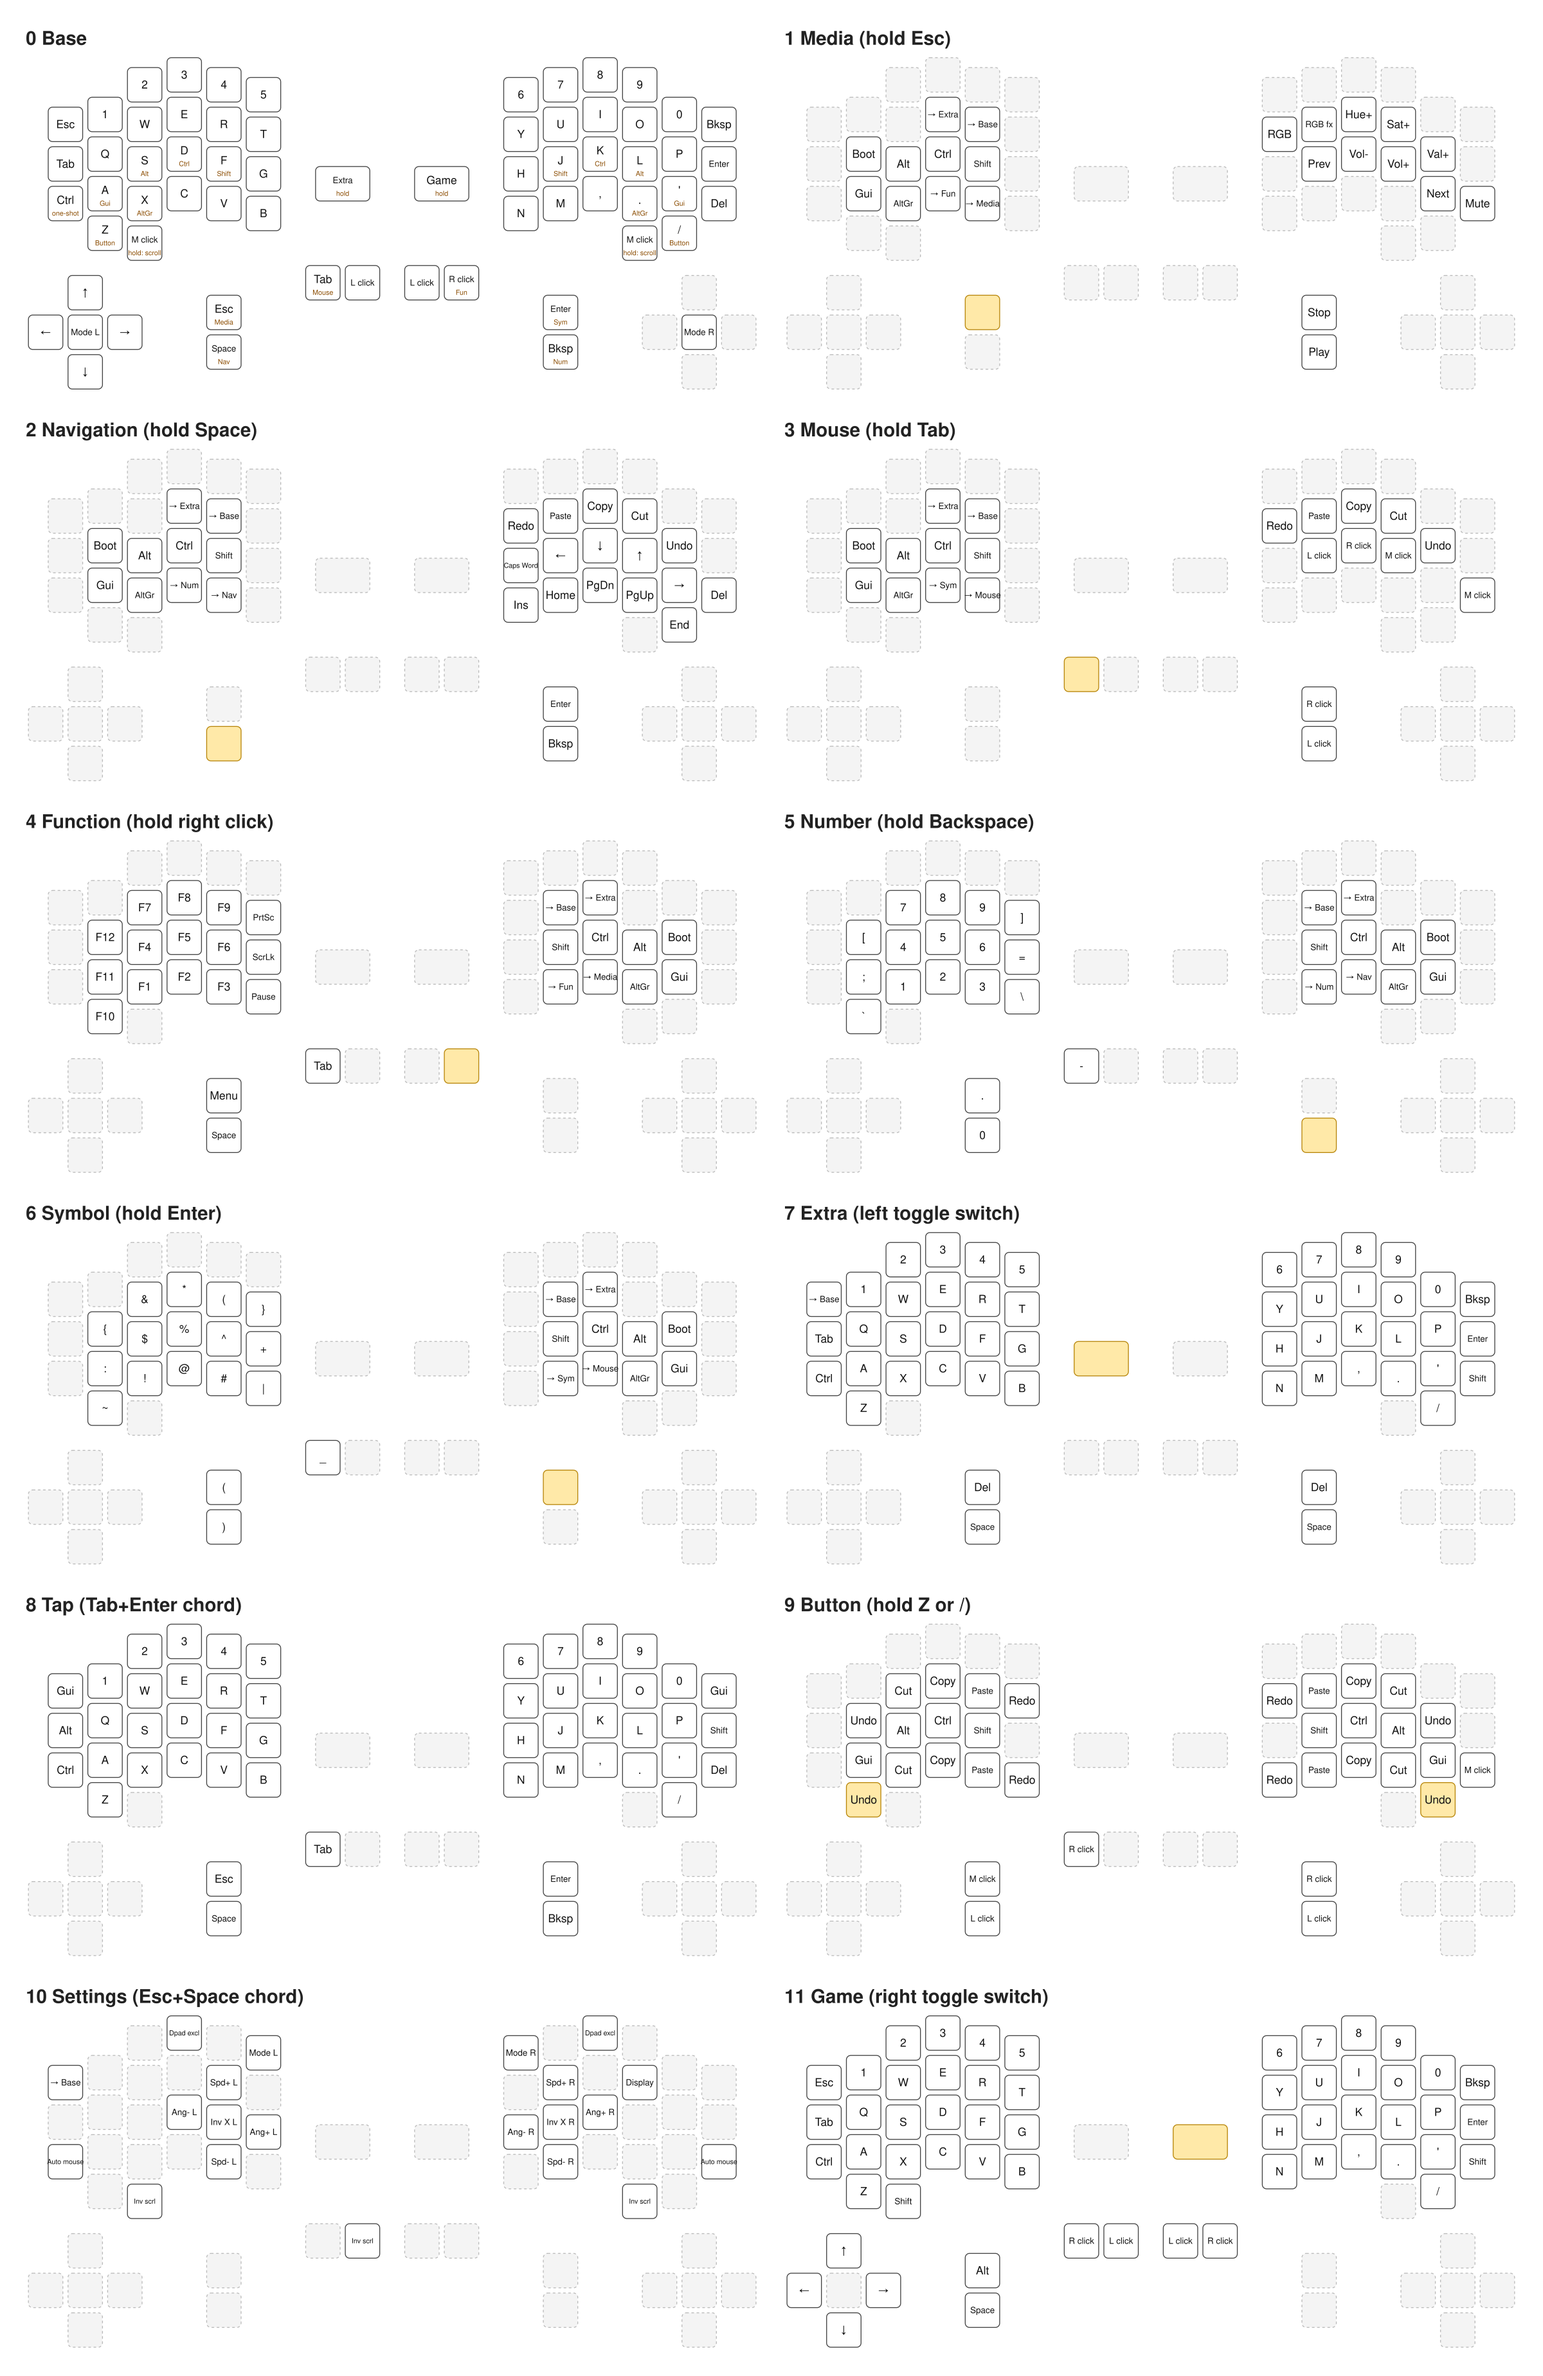
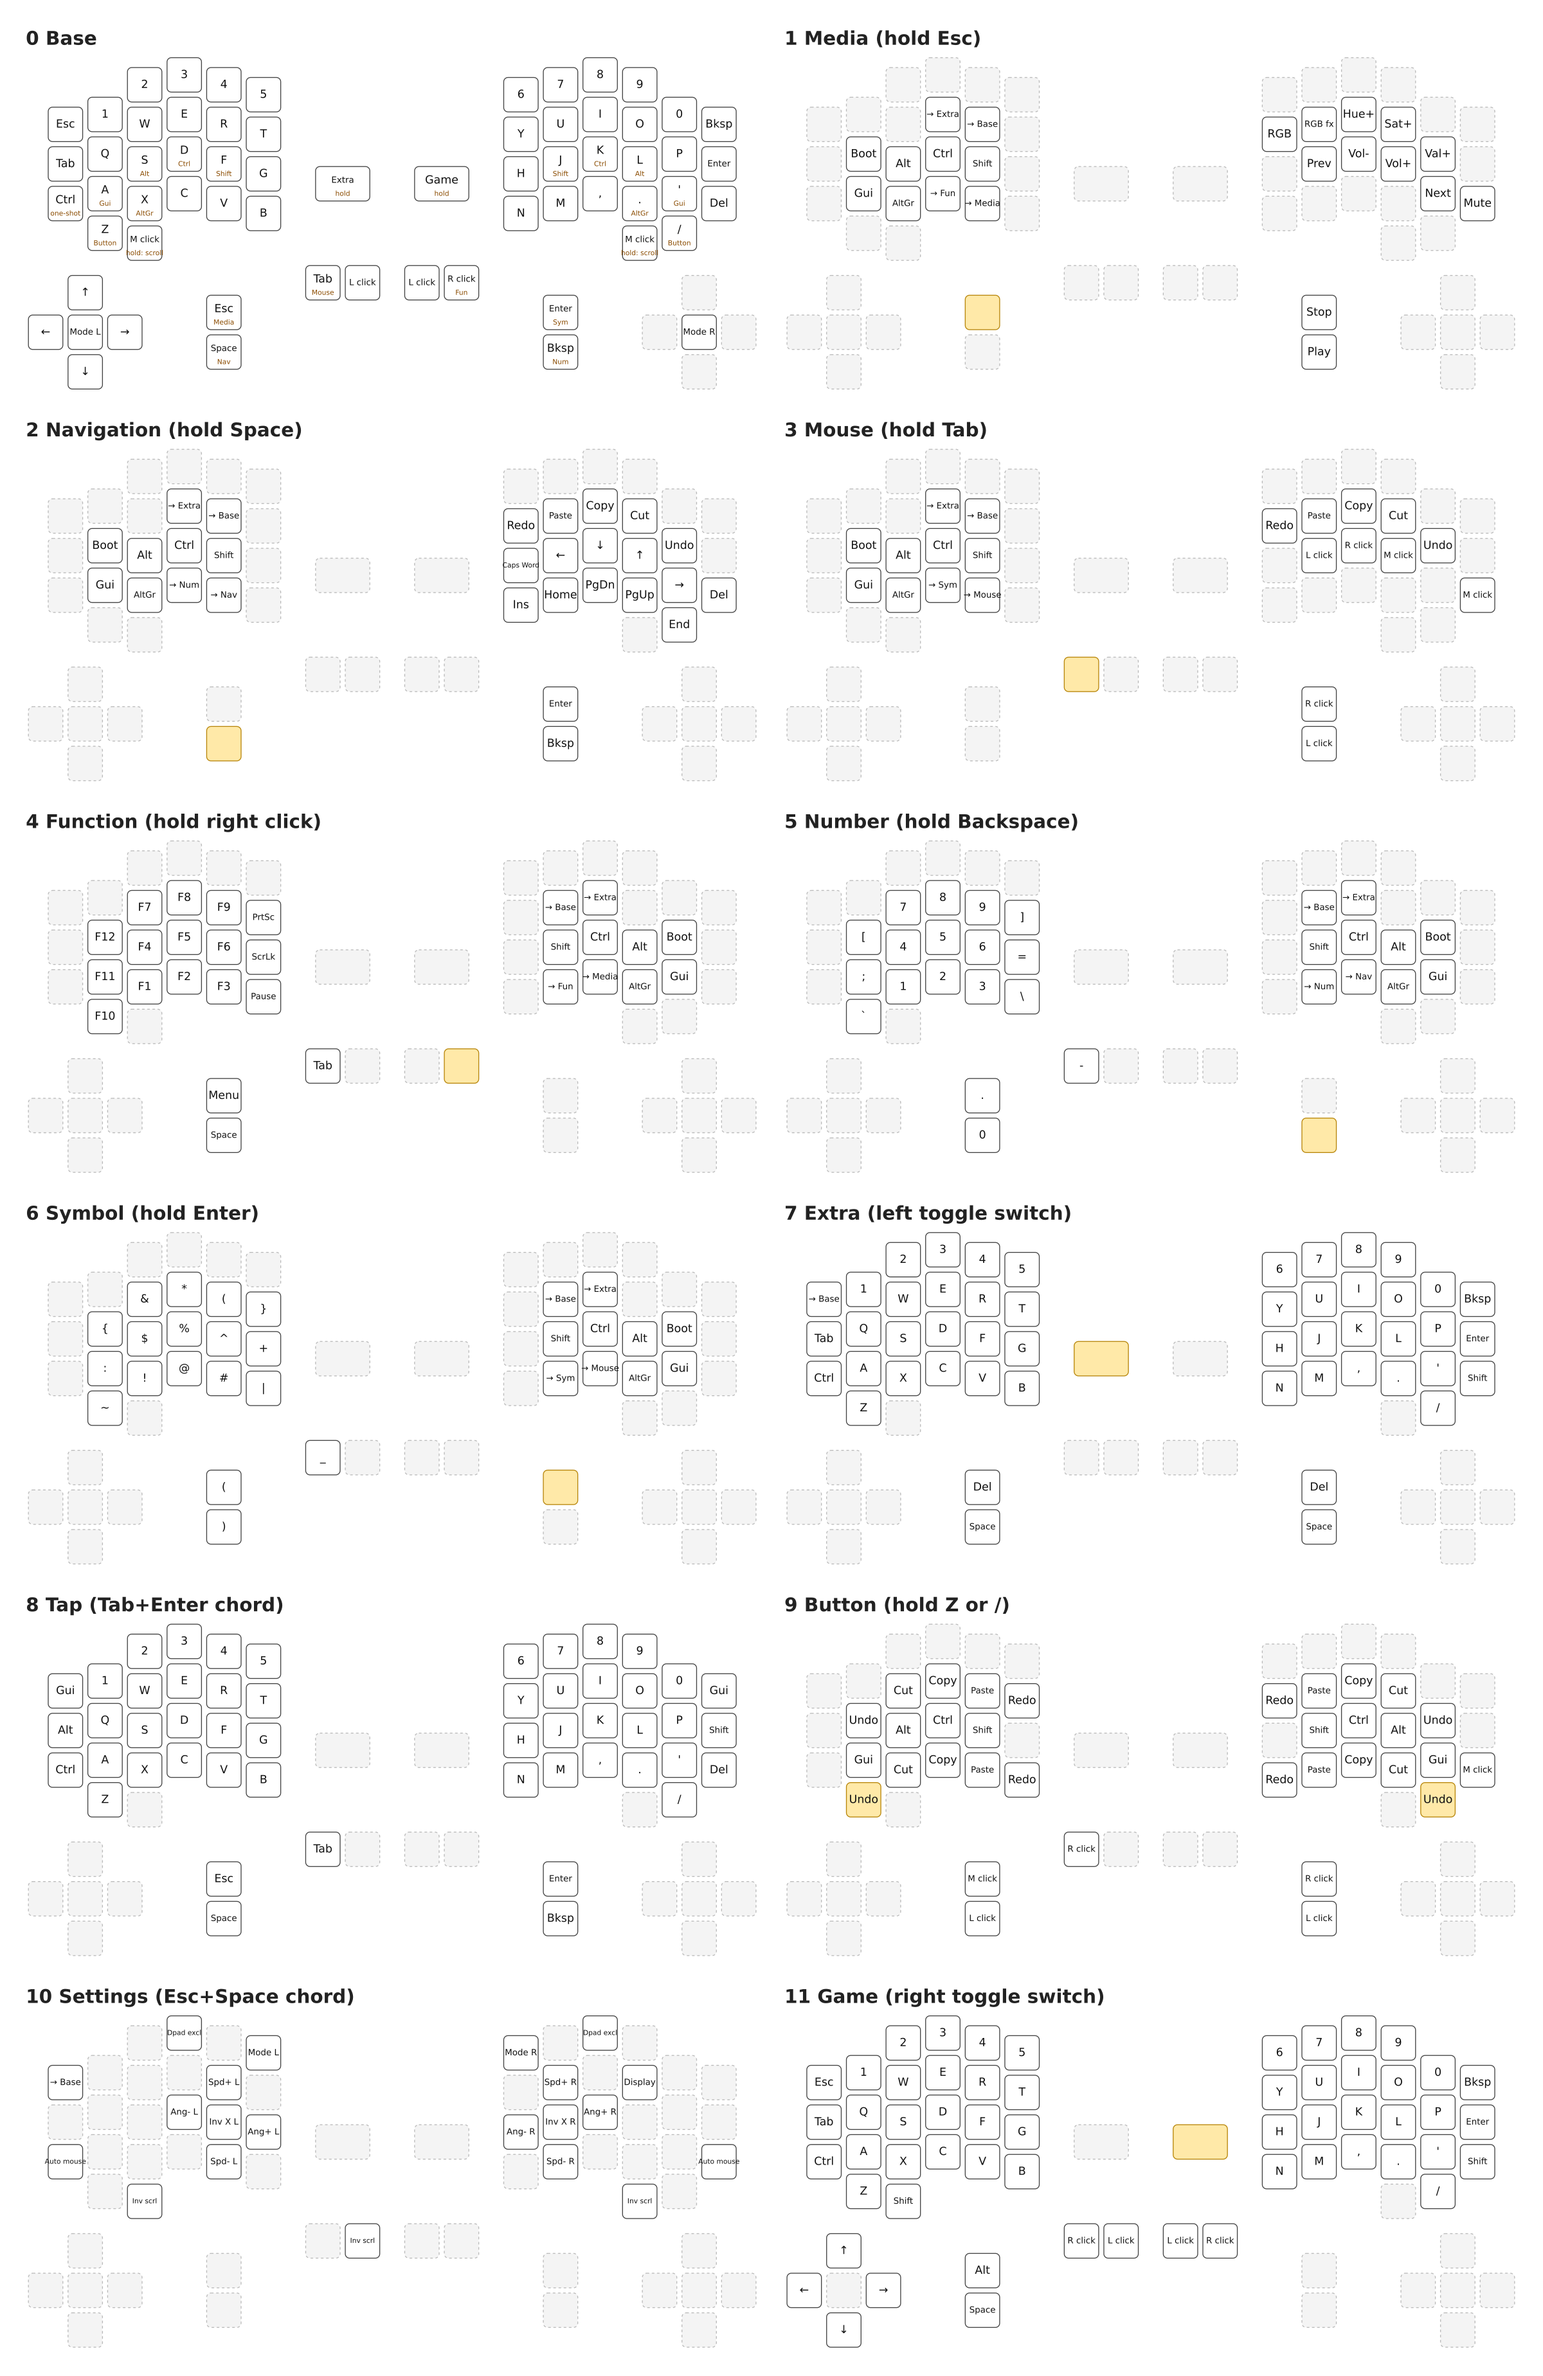
rotate only the upright OLED artwork for the right half in software

diff --git a/keyboards/killerwhale/duo/keymaps/miryoku/keymap.c b/keyboards/killerwhale/duo/keymaps/miryoku/keymap.c
@@ -13,7 +13,6 @@
 enum custom_keycodes {
     SCRL_BTN = SAFE_RANGE, // tap = middle click, hold = scroll mode
     OLED_VIEW,             // cycle the USB half's display view (KW layer, O key)
-    OLED_FLIP,             // cycle the right panel's orientation (KW layer, I key)
 };
 
 // Layer definitions. Thumb hold layers first, in thumb order left to right
@@ -301,7 +300,7 @@ const uint16_t PROGMEM keymaps[][MATRIX_ROWS][MATRIX_COLS] = {
     /*
      * KillerWhale Layer (trackball / dpad / encoder settings)
      * ESC returns to BASE. 5 / 6 cycle the left / right ball mode, O cycles
-     * the USB half's display view, I cycles the right panel's orientation.
+     * the USB half's display view.
      */
     [U_KW] = LAYOUT(
         TO(U_BASE), _______, _______, QK_USER_14, _______, L_CHMOD,
@@ -314,7 +313,7 @@ const uint16_t PROGMEM keymaps[][MATRIX_ROWS][MATRIX_COLS] = {
         _______, INV_SCRL, _______,
 
         R_CHMOD, _______, QK_USER_14, _______, _______, _______,
-        _______, R_SPD_I, OLED_FLIP, OLED_VIEW, _______, _______,
+        _______, R_SPD_I, _______, OLED_VIEW, _______, _______,
         R_ANG_D, R_INV, R_ANG_I, _______, _______, AUTO_MOUSE,
         _______, R_SPD_D, _______, _______, _______,
         INV_SCRL,
@@ -384,50 +383,9 @@ typedef union {
     uint32_t raw;
     struct {
         uint8_t oled_view : 2;
-        uint8_t right_panel : 2; // the right half's own panel orientation
     };
 } user_config_t;
 static user_config_t user_config;
-
-// Orientation of the right half's panel as {flip columns, flip rows}. Index 0
-// is the one that makes the big layer digit read correctly; the others are
-// there so the setting can be found on the board, because "mirrored" means a
-// different buffer axis for the sideways stats text than for the upright digit.
-// Each half keeps its own value, so set it with USB in the right half and it
-// still applies when that half runs as the secondary.
-static const bool right_panel_flips[4][2] = {{true, false}, {false, false}, {false, true}, {true, true}};
-
-// The right half's module is mounted turned around on the tented half, so from
-// the user's seat it needs a mirror along its length (columns flipped, rows
-// not), not a 180 degree rotation. Verified on the board by cycling all four
-// hardware flips. Segment remap only applies to data written after the
-// command, so every attempt forces a full redraw.
-//
-// Applying it once at boot did not stick on the half running as secondary; the
-// only time it ever took was when a key sent it seconds after start-up, so it
-// races the panel's own init. Re-send it for the first few seconds instead.
-// Handedness is read straight off the split hand pin, the way the board lib
-// does it, rather than through is_keyboard_left().
-#define ORIENT_ATTEMPTS 10
-#define ORIENT_INTERVAL 500
-static void apply_right_panel(void) {
-    oled_set_panel_flip(right_panel_flips[user_config.right_panel][0], right_panel_flips[user_config.right_panel][1]);
-    oled_clear();
-}
-
-static void orient_right_oled(void) {
-    static uint8_t  attempts = 0;
-    static uint16_t last     = 0;
-    if (attempts >= ORIENT_ATTEMPTS || !gpio_read_pin(SPLIT_HAND_PIN)) {
-        return; // left half reads the pin low
-    }
-    if (attempts > 0 && timer_elapsed(last) < ORIENT_INTERVAL) {
-        return;
-    }
-    last = timer_read();
-    attempts++;
-    apply_right_panel();
-}
 
 // Keep the trackball from yanking the keymap into the mouse layer while typing,
 // and let the board lib drive the OLEDs: USB half = stats, other half = layer digit.
@@ -449,16 +407,6 @@ bool process_record_user(uint16_t keycode, keyrecord_t *record) {
         if (record->event.pressed) {
             user_config.oled_view = (user_config.oled_view + 1) % VIEW_COUNT;
             eeconfig_update_user(user_config.raw);
-        }
-        return false;
-    }
-    if (keycode == OLED_FLIP) {
-        // Keys are processed on the half with USB, so this edits that half's
-        // own stored value and only means anything when it is the right half.
-        if (record->event.pressed && gpio_read_pin(SPLIT_HAND_PIN)) {
-            user_config.right_panel = (user_config.right_panel + 1) % 4;
-            eeconfig_update_user(user_config.raw);
-            apply_right_panel();
         }
         return false;
     }
@@ -485,9 +433,9 @@ bool process_record_user(uint16_t keycode, keyrecord_t *record) {
 // OLED. The board lib draws the big layer digit on the non-USB half and the
 // trackball stats on the USB half. The keymap takes over a frame (returns
 // false from oled_task_user) for layers without a digit and for the extra USB
-// half views, cycled with OLED_VIEW and kept in user EEPROM. Frames are drawn
-// in the left half's orientation; the right half's panel is mirrored in
-// hardware, see orient_right_oled().
+// half views, cycled with OLED_VIEW and kept in user EEPROM. Upright portrait
+// artwork is rotated for the right half inside the board lib; sideways content
+// needs no transform on either half.
 // ---------------------------------------------------------------------------
 static const char *const layer_names[] = {
     [U_BASE] = "Base", [U_MEDIA] = "Media", [U_NAV] = "Navigation", [U_MOUSE] = "Mouse", [U_FUN] = "Function", [U_NUM] = "Number", [U_SYM] = "Symbol", [U_EXTRA] = "Extra", [U_TAP] = "Tap", [U_BUTTON] = "Button", [U_KW] = "Settings", [U_GAME] = "Game",
@@ -586,7 +534,6 @@ static void render_wpm_view(uint8_t layer) {
 }
 
 bool oled_task_user(void) {
-    orient_right_oled();
     uint8_t layer = get_highest_layer(layer_state);
     if (!is_keyboard_master()) {
         return render_layer_view(layer);

diff --git a/keyboards/killerwhale/duo/lib/add_oled.c b/keyboards/killerwhale/duo/lib/add_oled.c
@@ -27,29 +27,39 @@ void oled_init_addedoled(void){
 }
 
 
-// Panel orientation on the fly: SSD1306 segment remap (columns, along the
-// panel) and COM scan direction (rows, across it). The driver's own init sends
-// A1 + C8 for OLED_ROTATION_0. Used by the keymap to orient the right half's
-// panel, which is mounted differently from the left one.
-void oled_set_panel_flip(bool flip_columns, bool flip_rows) {
-    const uint8_t cmd[] = {0x00, flip_columns ? 0xA0 : 0xA1, flip_rows ? 0xC0 : 0xC8};
-    i2c_transmit(OLED_DISPLAY_ADDRESS << 1, cmd, sizeof(cmd), OLED_I2C_TIMEOUT);
-}
-
 // Push a full 128x32 frame as one raw write. Raw writes only dirty the bytes
 // that changed, whereas oled_clear() marks every block dirty each frame and,
 // with the default OLED_UPDATE_PROCESS_LIMIT of 1, the lower blocks never get
-// flushed. Frames are drawn in the left half's orientation; the right half's
-// panel is oriented by the hardware (see oled_set_panel_flip).
+// flushed.
 void oled_write_frame(const char *frame) {
     oled_set_cursor(0, 0);
     oled_write_raw_P(frame, OLED_MATRIX_SIZE);
 }
 
+// Same, for artwork drawn upright in portrait (the big digits and labels).
+// The two panels are mounted 180 degrees apart, so that artwork is rotated for
+// the right half; this is what the vendor's pre-rotated reverse_number[] did.
+// Sideways content (the stats text, the scaled text line, the cat) is NOT
+// rotated: its reading direction runs along the panel's long axis and comes out
+// correct on both halves untouched.
+void oled_write_portrait_frame(const char *frame) {
+    char buf[OLED_MATRIX_SIZE];
+    memcpy_P(buf, frame, sizeof(buf));
+    if (gpio_read_pin(SPLIT_HAND_PIN)) { // right half reads the hand pin high
+        for (uint16_t i = 0; i < OLED_MATRIX_SIZE / 2; i++) {
+            char tmp                      = bitrev(buf[i]);
+            buf[i]                        = bitrev(buf[OLED_MATRIX_SIZE - 1 - i]);
+            buf[OLED_MATRIX_SIZE - 1 - i] = tmp;
+        }
+    }
+    oled_set_cursor(0, 0);
+    oled_write_raw(buf, sizeof(buf));
+}
+
 // Pre-rendered big digit for layers 0..9.
 void oled_write_layer_digit(uint8_t layer) {
     if (layer < 10) {
-        oled_write_frame(number[layer]);
+        oled_write_portrait_frame(number[layer]);
     }
 }
 
@@ -87,7 +97,7 @@ void oled_write_layer_label(const char *label) {
             }
         }
     }
-    oled_write_frame(frame);
+    oled_write_portrait_frame(frame);
 }
 
 // Render one line of text scaled up, in the same sideways orientation as the

diff --git a/keyboards/killerwhale/duo/lib/add_oled.h b/keyboards/killerwhale/duo/lib/add_oled.h
@@ -6,10 +6,10 @@
 
 void oled_init_addedoled(void);
 bool oled_task_addedoled(void);
-void oled_set_panel_flip(bool flip_columns, bool flip_rows); // A0/A1 + C0/C8, after oled_init
 void oled_interrupt(uint16_t keycode);
 void oled_tempch(bool on, uint16_t keycode);
 void oled_write_frame(const char *frame);                     // full 128x32 frame (RAM or PROGMEM)
+void oled_write_portrait_frame(const char *frame);            // same, rotated 180 on the right half
 void oled_write_layer_digit(uint8_t layer);                   // pre-rendered big digit, layers 0..9
 void oled_write_layer_label(const char *label);               // upright portrait label, 4x glyphs stacked
 void oled_write_scaled_line(const char *text, uint8_t scale); // one sideways text line, scaled and centred

diff --git a/keyboards/killerwhale/duo/lib/common_killerwhale.c b/keyboards/killerwhale/duo/lib/common_killerwhale.c
@@ -660,8 +660,8 @@ oled_rotation_t oled_init_kb(oled_rotation_t rotation) {
     // 追加OLED初期化
     oled_init_addedoled();
 
-    // The right half's panel is mirrored along its length by the keymap once
-    // rendering has started (oled_set_panel_flip); no rotation here.
+    // Both panels run at the driver default; the right half's upright artwork
+    // is rotated in software instead (see oled_write_portrait_frame).
     return oled_init_user(rotation);
 }
 // 実タスク

diff --git a/keyboards/killerwhale/duo/keymaps/miryoku/README.md b/keyboards/killerwhale/duo/keymaps/miryoku/README.md
@@ -83,10 +83,13 @@ arrows mapped, so it does nothing on the right.
 
 ## Displays
 
-The panels are 128x32 mounted portrait. The right half's module is mounted turned around, so seen
-from your seat it needs mirroring along its length (not a 180 degree rotation); the keymap sends
-the panel a segment-remap command after init so both halves read the same way regardless of which
-one has the USB cable.
+The panels are 128x32 mounted portrait, and the two are mounted 180 degrees apart. Only the upright
+artwork (the big digits and the stacked label) is rotated for the right half, in software, which is
+what the vendor's second set of pre-rotated digit bitmaps did. Sideways content, meaning the stats
+text and the double-size layer name, reads correctly on both halves untouched, because its reading
+direction runs along the panel's long axis. The panels themselves are left at the driver default:
+flipping those in hardware cannot work, since it would move both kinds of content at once and they
+need opposite treatment.
 
 The half **without** USB shows the layer: the vendor's big digit for layers 0 to 9, a stacked "KW"
 for Settings, and a bongo cat on Game that reacts to key presses on either half.
